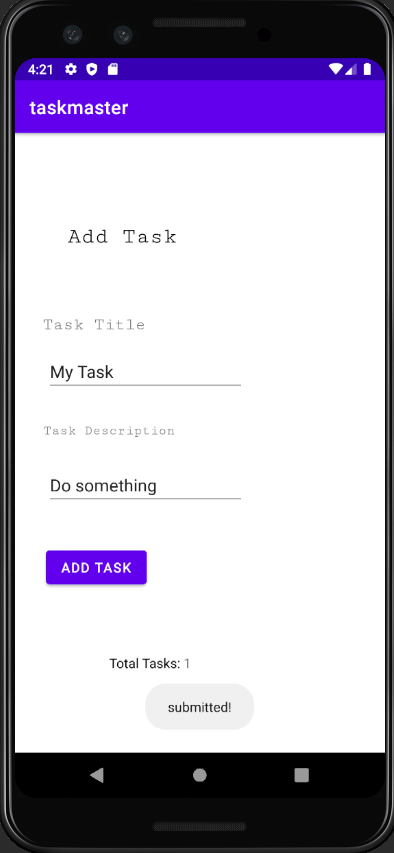
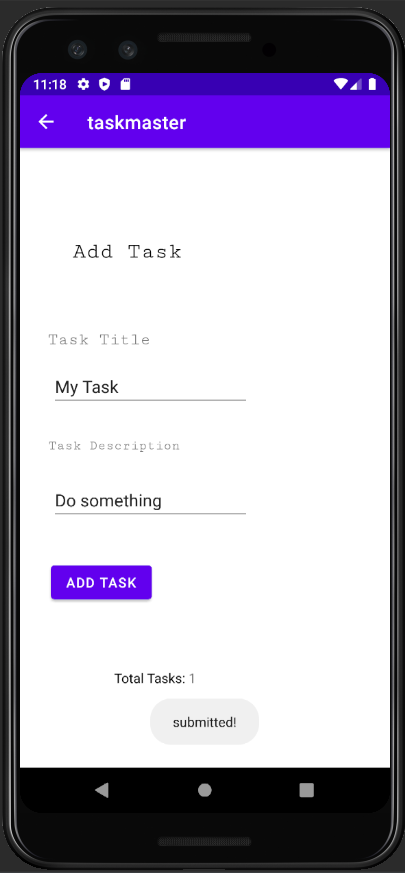
the back arrow at the top for each activity are added

diff --git a/app/src/main/java/com/example/taskmaster/TaskDetail.java b/app/src/main/java/com/example/taskmaster/TaskDetail.java
@@ -11,8 +11,46 @@ public class TaskDetail extends AppCompatActivity {
     protected void onCreate(Bundle savedInstanceState) {
         super.onCreate(savedInstanceState);
         setContentView(R.layout.activity_task_detail);
+        getSupportActionBar().setDisplayHomeAsUpEnabled(true);
         TextView title = findViewById(R.id.changableTitle);
         String strTitle = getIntent().getExtras().get("title").toString();
         title.setText(strTitle);
     }
 }
+
+
+
+
+
+
+
+
+
+
+
+
+
+
+
+
+
+
+
+
+
+
+
+
+
+
+
+
+
+
+
+
+
+
+
+
+

diff --git a/app/src/main/java/com/example/taskmaster/Settings.java b/app/src/main/java/com/example/taskmaster/Settings.java
@@ -16,6 +16,7 @@ public class Settings extends AppCompatActivity {
     protected void onCreate(Bundle savedInstanceState) {
         super.onCreate(savedInstanceState);
         setContentView(R.layout.activity_settings);
+        getSupportActionBar().setDisplayHomeAsUpEnabled(true);
         Button preferencesButton = findViewById(R.id.saveButton);
 
         preferencesButton.setOnClickListener(new View.OnClickListener() {

diff --git a/app/src/main/java/com/example/taskmaster/AddTask.java b/app/src/main/java/com/example/taskmaster/AddTask.java
@@ -14,7 +14,7 @@ public class AddTask extends AppCompatActivity {
     protected void onCreate(Bundle savedInstanceState) {
         super.onCreate(savedInstanceState);
         setContentView(R.layout.activity_add_task);
-
+         getSupportActionBar().setDisplayHomeAsUpEnabled(true);
 
          Button SubmitButton = findViewById(R.id.Submit);
          SubmitButton.setOnClickListener(new View.OnClickListener() {

diff --git a/app/src/main/java/com/example/taskmaster/AllTasks.java b/app/src/main/java/com/example/taskmaster/AllTasks.java
@@ -10,5 +10,6 @@ public class AllTasks extends AppCompatActivity {
     protected void onCreate(Bundle savedInstanceState) {
         super.onCreate(savedInstanceState);
         setContentView(R.layout.activity_all_tasks);
+        getSupportActionBar().setDisplayHomeAsUpEnabled(true);
     }
 }

diff --git a/README.md b/README.md
@@ -17,7 +17,7 @@ Task Master is an android application for android users to manage their tasks.
 
 * The Add Task
 
-![AddTask](screenshots/AddTask.png)
+![AddTask](screenshots/addTask.png)
 
 
 * The All Tasks
@@ -41,15 +41,15 @@ Task Master is an android application for android users to manage their tasks.
 
 * TaskDetails page when click button1 from home page
 
-![TaskDetails1](screenshots/TaskDetails1.png)
+![TaskDetails1](screenshots/task1.png)
 
 
 * TaskDetails page when click button2 from home page
 
-![TaskDetails2](screenshots/TaskDetails2.png)
+![TaskDetails2](screenshots/task2.png)
 
 * TaskDetails page when click button3 from home page
 
-![TaskDetails3](screenshots/TaskDetails3.png)
+![TaskDetails3](screenshots/task3.png)
 
 
